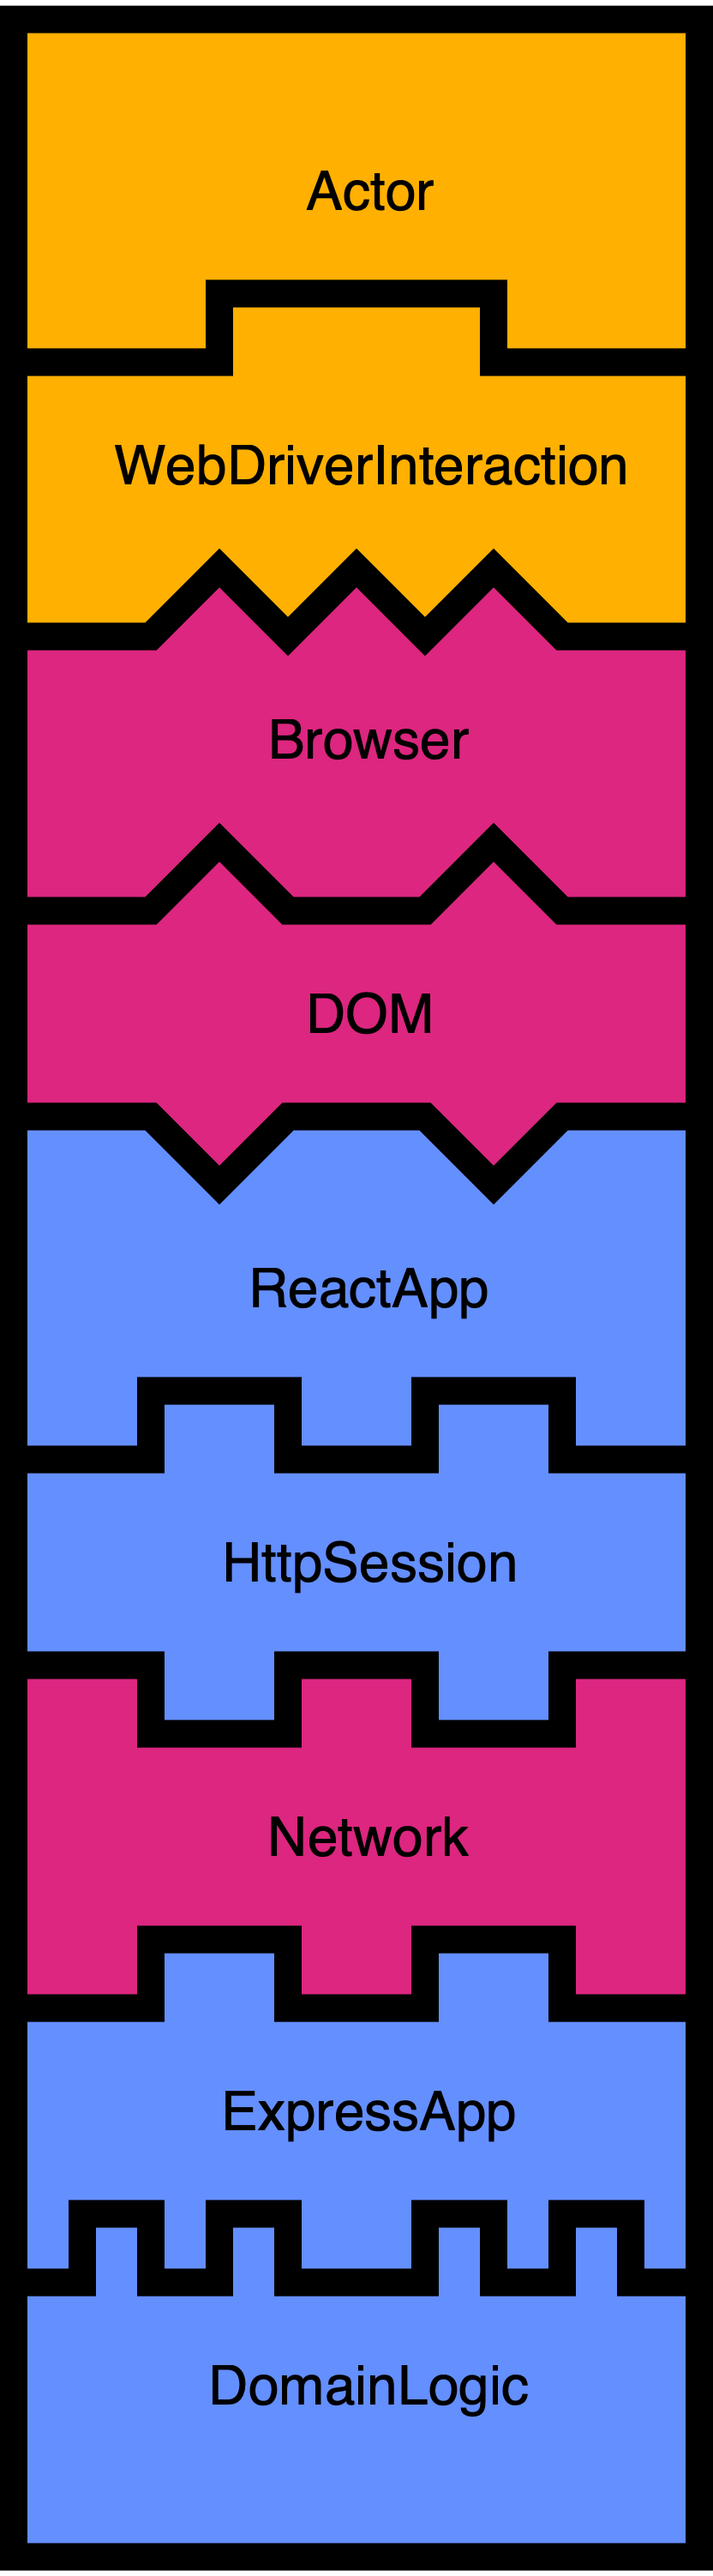
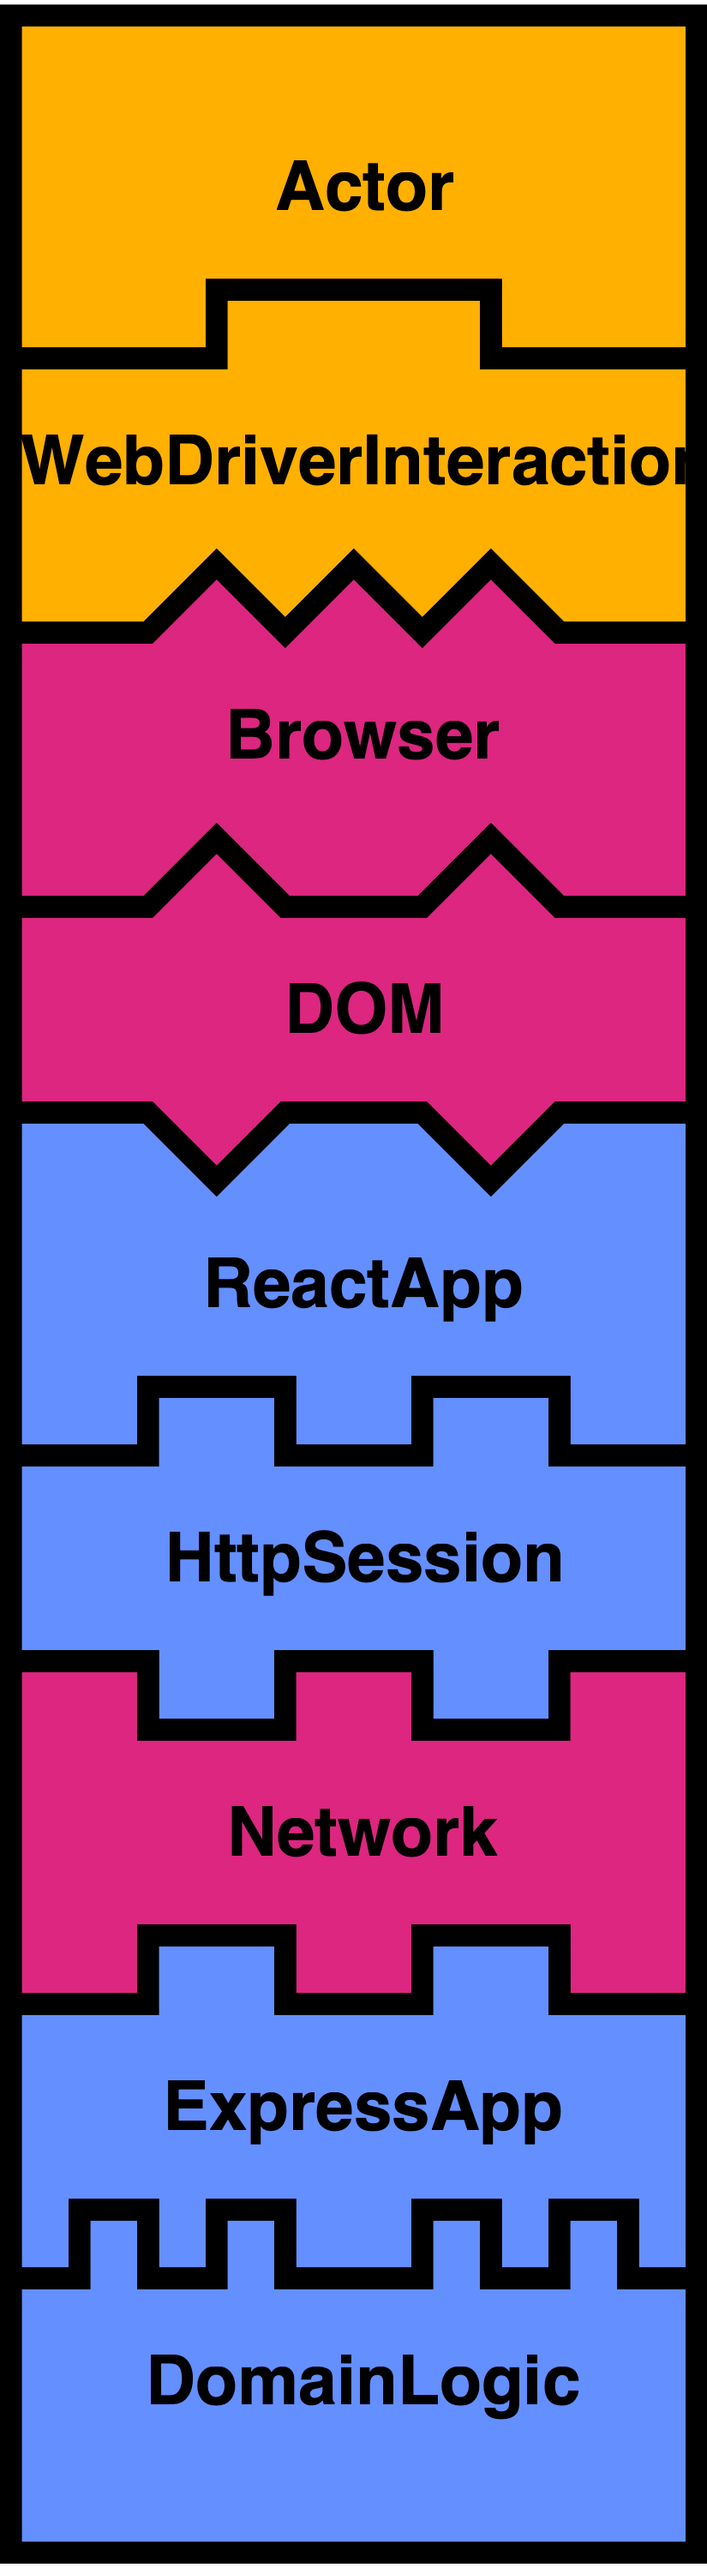
Tweak styling

diff --git a/src/assembly.css b/src/assembly.css
@@ -1,6 +1,7 @@
 text {
-  font-size: 40px;
+  font-size: 50px;
   font-family: sans-serif;
+  font-weight: bold;
   fill: #000000;
 }
 
